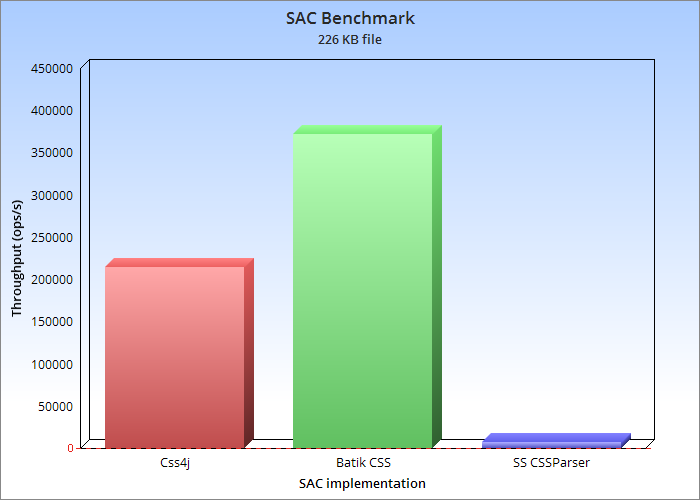
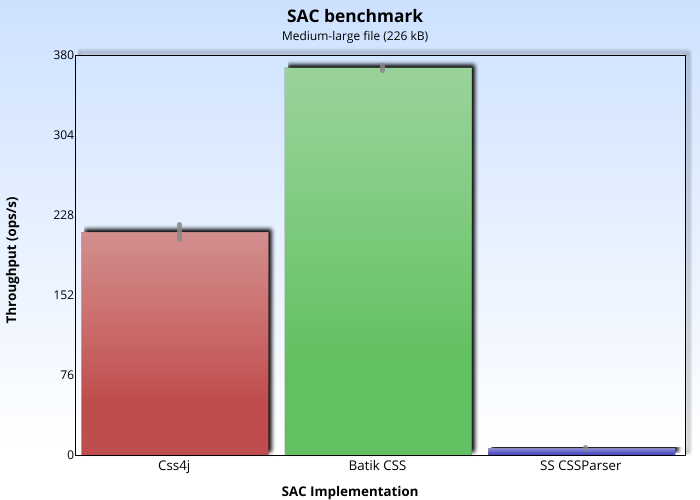
Update graphs for the SAC benchmarks.

diff --git a/sac-mark.html b/sac-mark.html
@@ -1,10 +1,8 @@
-<!DOCTYPE html>
-<html lang="en">
-<head>
+<!DOCTYPE html><html lang="en"><head>
 <title>CSS4J SAC benchmarks</title>
 <link href="basic-c.css" rel="stylesheet" type="text/css" />
-<meta http-equiv="content-type" content="text/html; charset=utf-8">
-<meta name="viewport" content="width=device-width, initial-scale=1">
+<meta http-equiv="content-type" content="text/html; charset=utf-8" />
+<meta name="viewport" content="width=device-width, initial-scale=1" />
 </head>
 <body>
 <div class="layout">
@@ -47,25 +45,171 @@
 <p>Measures the speed at which the SAC parser can process a sample style sheet (contains a subset of the HTML5 user agent's sheet, and then a mix of common style rules).
 </p>
 <p>Given that in css4j 1.<i>x</i> you can choose your preferred SAC parser, this benchmark may be of help.</p>
-<p>The results come from <a href="https://github.com/css4j/benchmark/blob/css4j-1.x/src/io/sf/carte/doc/style/css/mark/SACBenchmark.java">SACBenchmark</a>.</p>
-<div class="tema"><h3>Medium-large file (226 kB)</h3>
-<img src="benchmark/sac-226kb.png" alt="SAC benchmark" />
+<p>The results come from <a href="https://github.com/css4j/benchmark/blob/css4j-1.x/src/io/sf/carte/mark/css/SACBenchmark.java">SACBenchmark</a>.</p>
+<div class="tema" id="sac-226kb"><h3>Medium-large file (226 kB)</h3>
+<svg version="1.1" baseprofile="full" xmlns="http://www.w3.org/2000/svg" width="700" height="500" viewbox="0 0 700 500" class="carteitem">
+<title>SAC benchmark</title><defs>
+<clipPath id="sac-226kb-cut-scale-shadow">
+  <rect width="623" height="15" x="71" y="41"></rect>
+  <rect width="8" height="418" x="685" y="37"></rect>
+</clipPath>
+<linearGradient id="sac-226kb-background" gradientunits="objectBoundingBox" x1="1" x2="1" y1="0" y2="1">
+<stop stop-color="#cde1ff" offset="0"></stop>
+<stop stop-color="#ffffff" offset="0.9"></stop>
+</linearGradient>
+<linearGradient id="sac-226kb-reflection" gradientunits="objectBoundingBox" x1="0" x2="0" y1="0" y2="1">
+<stop stop-color="#eeeeee" offset="0" stop-opacity="0.4"></stop>
+<stop stop-color="#ffffff" offset="0.75" stop-opacity="0"></stop>
+</linearGradient>
+<filter id="sac-226kb-projection" filterunits="objectBoundingBox" x="0" y="-0.1" width="1.2" height="1.2">
+<feGaussianBlur in="SourceAlpha" stddeviation="2" result="alpha_blur"></feGaussianBlur>
+<feOffset in="alpha_blur" dx="3" dy="-3" result="offset_alpha_blur"></feOffset>
+</filter>
+</defs>
+<style>
+text {
+  font-family: "Open Sans",Verdana,sans-serif;
+}
+#caption {
+  font-size: 13pt;
+  font-weight: 700;
+}
+#subcaption {
+  font-size: 9pt;
+  font-weight: 600;
+}
+#x-title,#y-title{
+  font-size: 10pt;
+  font-weight: 700;
+}
+.itemlabel {
+  font-size: 10pt;
+  font-weight: 400;
+}
+.scaleItem {
+  font-size: 9pt;
+  font-weight: 300;
+}
+</style>
+<rect width="100%" height="100%" fill="url('#sac-226kb-background')"></rect>
+<rect width="610" height="400" x="75" y="55" stroke="#000000" fill="rgb(0,0,0)" fill-opacity="0" filter="url('#sac-226kb-projection')" clip-path="url('#sac-226kb-cut-scale-shadow')"></rect>
+<rect id="sac-226kb-chartbox" width="610" height="400" x="75" y="55" stroke-width="1" stroke="#000000" fill="rgb(0,0,0)" fill-opacity="0"></rect>
+<text id="caption" x="355" y="22" text-anchor="middle" fill="black">SAC benchmark</text>
+<text id="subcaption" x="355" y="40" text-anchor="middle" fill="black">Medium-large file (226 kB)</text>
+<rect width="187.0" height="223" x="81.5" y="232" stroke="#ffffff" stroke-opacity="0.4" filter="url('#sac-226kb-projection')"></rect>
+<rect id="sac-226kb-markSACParseStyleSheet" width="187.0" height="223" x="81.5" y="232" stroke="black" stroke-width="0.4" stroke-opacity="0.3" fill="#c04d4d"></rect>
+<rect width="187.0" height="223" x="81.5" y="232" fill="url('#sac-226kb-reflection')"></rect>
+<line x1="179.1" x2="179.1" y1="224.4" y2="239.6" stroke="#888888" stroke-opacity="0.867" stroke-width="5" stroke-linecap="round" stroke-dasharray="1" class="errorbar"></line>
+<text x="174.1" y="470" class="itemlabel" text-anchor="middle" fill="black">Css4j</text>
+<rect width="187.0" height="387.2" x="284.9" y="67.8" stroke="#ffffff" stroke-opacity="0.4" filter="url('#sac-226kb-projection')"></rect>
+<rect id="sac-226kb-markSACParseStyleSheetBatik" width="187.0" height="387.2" x="284.9" y="67.8" stroke="black" stroke-width="0.4" stroke-opacity="0.3" fill="#61c061"></rect>
+<rect width="187.0" height="387.2" x="284.9" y="67.8" fill="url('#sac-226kb-reflection')"></rect>
+<line x1="382.5" x2="382.5" y1="65.9" y2="70.1" stroke="#888888" stroke-opacity="0.867" stroke-width="5" stroke-linecap="round" stroke-dasharray="1" class="errorbar"></line>
+<text x="377.4" y="470" class="itemlabel" text-anchor="middle" fill="black">Batik CSS</text>
+<rect width="187.0" height="7" x="488.2" y="448" stroke="#ffffff" stroke-opacity="0.4" filter="url('#sac-226kb-projection')"></rect>
+<rect id="sac-226kb-markSACParseStyleSheetSSParser" width="187.0" height="7" x="488.2" y="448" stroke="black" stroke-width="0.4" stroke-opacity="0.3" fill="#4d4dc0"></rect>
+<rect width="187.0" height="7" x="488.2" y="448" fill="url('#sac-226kb-reflection')"></rect>
+<line x1="585.8" x2="585.8" y1="447.9" y2="448.1" stroke="#888888" stroke-opacity="0.867" stroke-width="5" stroke-linecap="round" stroke-dasharray="1" class="errorbar"></line>
+<text x="580.7" y="470" class="itemlabel" text-anchor="middle" fill="black">SS CSSParser</text>
+<text x="74" y="59" class="scaleitem" text-anchor="end">380</text>
+<text x="74" y="139" class="scaleitem" text-anchor="end">304</text>
+<text x="74" y="219" class="scaleitem" text-anchor="end">228</text>
+<text x="74" y="299" class="scaleitem" text-anchor="end">152</text>
+<text x="74" y="379" class="scaleitem" text-anchor="end">76</text>
+<text x="74" y="459" class="scaleitem" text-anchor="end">0</text>
+<text id="y-title" x="16" y="260" text-anchor="middle" fill="black" transform="rotate(270,16,260)">Throughput (ops/s)</text>
+<text id="x-title" x="350" y="496" text-anchor="middle" fill="black">SAC Implementation</text>
+<image src="benchmark/sac-226kb.png" xlink:href=""></image></svg>
 <p>Numeric results (higher is better):</p>
-<table class="normaltbl">
-<tr><th>Implementation</th><th>Score</th><th>Error</th><th>Unit</th></tr>
-<tr><td>Css4j</td><td class="number">213.960</td><td class="number">±7.250</td><td>ops/s</td></tr>
-<tr><td>Batik CSS</td><td class="number">371.577</td><td class="number">±2.017</td><td>ops/s</td></tr>
-<tr><td>SS CSSParser</td><td class="number">6.705</td><td class="number">±0.057</td><td>ops/s</td></tr>
-</table></div>
-<div class="tema"><h3>Small file (13 kB)</h3>
-<img src="benchmark/sac-small.png" alt="SAC benchmark" />
+<table class="normaltbl carteitem">
+<thead><tr><th>Implementation</th><th>Score</th><th>Error</th><th>Unit</th></tr></thead>
+<tbody>
+<tr><td>Css4j</td><td class="number">213.9596</td><td class="number">±7.2496</td><td>ops/s</td></tr>
+<tr><td>Batik CSS</td><td class="number">371.5772</td><td class="number">±2.0175</td><td>ops/s</td></tr>
+<tr><td>SS CSSParser</td><td class="number">6.7046</td><td class="number">±0.0571</td><td>ops/s</td></tr>
+</tbody></table></div>
+<div class="tema" id="sac-small"><h3>Small file (13 kB)</h3>
+<svg version="1.1" baseprofile="full" xmlns="http://www.w3.org/2000/svg" width="700" height="500" viewbox="0 0 700 500" class="carteitem">
+<title>SAC benchmark</title><defs>
+<clipPath id="sac-small-cut-scale-shadow">
+  <rect width="623" height="15" x="71" y="41"></rect>
+  <rect width="8" height="418" x="685" y="37"></rect>
+</clipPath>
+<linearGradient id="sac-small-background" gradientunits="objectBoundingBox" x1="1" x2="1" y1="0" y2="1">
+<stop stop-color="#cde1ff" offset="0"></stop>
+<stop stop-color="#ffffff" offset="0.9"></stop>
+</linearGradient>
+<linearGradient id="sac-small-reflection" gradientunits="objectBoundingBox" x1="0" x2="0" y1="0" y2="1">
+<stop stop-color="#eeeeee" offset="0" stop-opacity="0.4"></stop>
+<stop stop-color="#ffffff" offset="0.75" stop-opacity="0"></stop>
+</linearGradient>
+<filter id="sac-small-projection" filterunits="objectBoundingBox" x="0" y="-0.1" width="1.2" height="1.2">
+<feGaussianBlur in="SourceAlpha" stddeviation="2" result="alpha_blur"></feGaussianBlur>
+<feOffset in="alpha_blur" dx="3" dy="-3" result="offset_alpha_blur"></feOffset>
+</filter>
+</defs>
+<style>
+text {
+  font-family: "Open Sans",Verdana,sans-serif;
+}
+#caption {
+  font-size: 13pt;
+  font-weight: 700;
+}
+#subcaption {
+  font-size: 9pt;
+  font-weight: 600;
+}
+#x-title,#y-title{
+  font-size: 10pt;
+  font-weight: 700;
+}
+.itemlabel {
+  font-size: 10pt;
+  font-weight: 400;
+}
+.scaleItem {
+  font-size: 9pt;
+  font-weight: 300;
+}
+</style>
+<rect width="100%" height="100%" fill="url('#sac-small-background')"></rect>
+<rect width="610" height="400" x="75" y="55" stroke="#000000" fill="rgb(0,0,0)" fill-opacity="0" filter="url('#sac-small-projection')" clip-path="url('#sac-small-cut-scale-shadow')"></rect>
+<rect id="sac-small-chartbox" width="610" height="400" x="75" y="55" stroke-width="1" stroke="#000000" fill="rgb(0,0,0)" fill-opacity="0"></rect>
+<text id="caption" x="355" y="22" text-anchor="middle" fill="black">SAC benchmark</text>
+<text id="subcaption" x="355" y="40" text-anchor="middle" fill="black">Medium-large file (226 kB)</text>
+<rect width="187.0" height="222.7" x="81.5" y="232.3" stroke="#ffffff" stroke-opacity="0.4" filter="url('#sac-small-projection')"></rect>
+<rect id="sac-small-markSACParseStyleSheet" width="187.0" height="222.7" x="81.5" y="232.3" stroke="black" stroke-width="0.4" stroke-opacity="0.3" fill="#c04d4d"></rect>
+<rect width="187.0" height="222.7" x="81.5" y="232.3" fill="url('#sac-small-reflection')"></rect>
+<line x1="179.1" x2="179.1" y1="223" y2="241" stroke="#888888" stroke-opacity="0.867" stroke-width="5" stroke-linecap="round" stroke-dasharray="1" class="errorbar"></line>
+<text x="174.1" y="470" class="itemlabel" text-anchor="middle" fill="black">Css4j</text>
+<rect width="187.0" height="385.4" x="284.9" y="69.6" stroke="#ffffff" stroke-opacity="0.4" filter="url('#sac-small-projection')"></rect>
+<rect id="sac-small-markSACParseStyleSheetBatik" width="187.0" height="385.4" x="284.9" y="69.6" stroke="black" stroke-width="0.4" stroke-opacity="0.3" fill="#61c061"></rect>
+<rect width="187.0" height="385.4" x="284.9" y="69.6" fill="url('#sac-small-reflection')"></rect>
+<line x1="382.5" x2="382.5" y1="67" y2="73" stroke="#888888" stroke-opacity="0.867" stroke-width="5" stroke-linecap="round" stroke-dasharray="1" class="errorbar"></line>
+<text x="377.4" y="470" class="itemlabel" text-anchor="middle" fill="black">Batik CSS</text>
+<rect width="187.0" height="8.7" x="488.2" y="446.3" stroke="#ffffff" stroke-opacity="0.4" filter="url('#sac-small-projection')"></rect>
+<rect id="sac-small-markSACParseStyleSheetSSParser" width="187.0" height="8.7" x="488.2" y="446.3" stroke="black" stroke-width="0.4" stroke-opacity="0.3" fill="#4d4dc0"></rect>
+<rect width="187.0" height="8.7" x="488.2" y="446.3" fill="url('#sac-small-reflection')"></rect>
+<line x1="585.8" x2="585.8" y1="445.9" y2="446.1" stroke="#888888" stroke-opacity="0.867" stroke-width="5" stroke-linecap="round" stroke-dasharray="1" class="errorbar"></line>
+<text x="580.7" y="470" class="itemlabel" text-anchor="middle" fill="black">SS CSSParser</text>
+<text x="74" y="59" class="scaleitem" text-anchor="end">6700</text>
+<text x="74" y="139" class="scaleitem" text-anchor="end">5360</text>
+<text x="74" y="219" class="scaleitem" text-anchor="end">4020</text>
+<text x="74" y="299" class="scaleitem" text-anchor="end">2680</text>
+<text x="74" y="379" class="scaleitem" text-anchor="end">1340</text>
+<text x="74" y="459" class="scaleitem" text-anchor="end">0</text>
+<text id="y-title" x="16" y="260" text-anchor="middle" fill="black" transform="rotate(270,16,260)">Throughput (ops/s)</text>
+<text id="x-title" x="350" y="496" text-anchor="middle" fill="black">SAC Implementation</text>
+<image src="benchmark/sac-small.png" xlink:href=""></image></svg>
 <p>Numeric results (higher is better):</p>
-<table class="normaltbl">
-<tr><th>Implementation</th><th>Score</th><th>Error</th><th>Unit</th></tr>
-<tr><td>Css4j</td><td class="number">3767.204</td><td class="number">±152.243</td><td>ops/s</td></tr>
-<tr><td>Batik CSS</td><td class="number">6521.440</td><td class="number">±51.305</td><td>ops/s</td></tr>
+<table class="normaltbl carteitem">
+<thead><tr><th>Implementation</th><th>Score</th><th>Error</th><th>Unit</th></tr></thead>
+<tbody>
+<tr><td>Css4j</td><td class="number">3,767.204</td><td class="number">±152.243</td><td>ops/s</td></tr>
+<tr><td>Batik CSS</td><td class="number">6,521.440</td><td class="number">±51.305</td><td>ops/s</td></tr>
 <tr><td>SS CSSParser</td><td class="number">146.390</td><td class="number">±1.046</td><td>ops/s</td></tr>
-</table></div>
+</tbody></table></div>
 </div>
 <div class="tema" id="analysis">
 <h2>Analysis</h2>
@@ -83,5 +227,4 @@ and is incompatible with css4j 1.x.</p>
 </div>
 </div>
 </div>
-</body>
-</html>
+</body></html>
